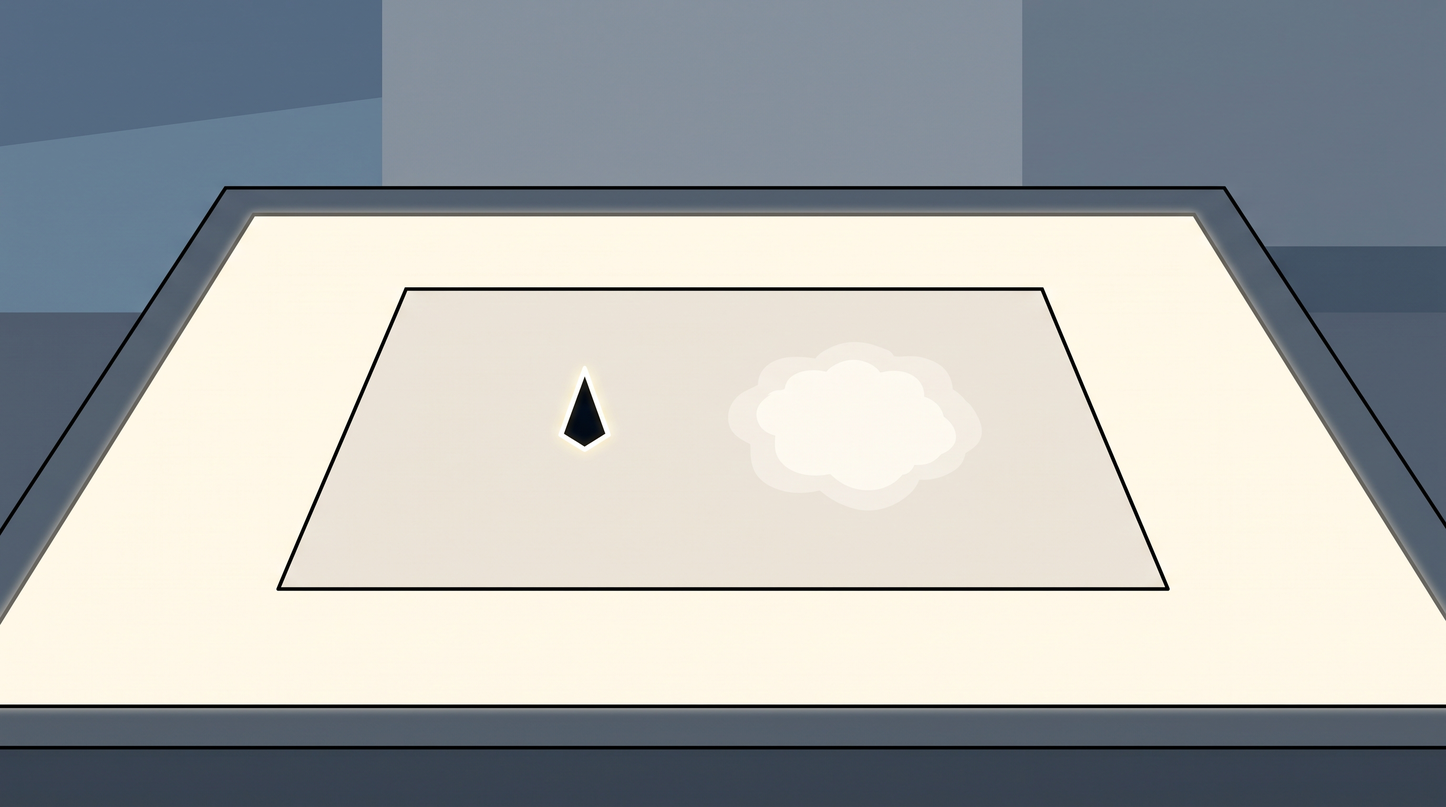
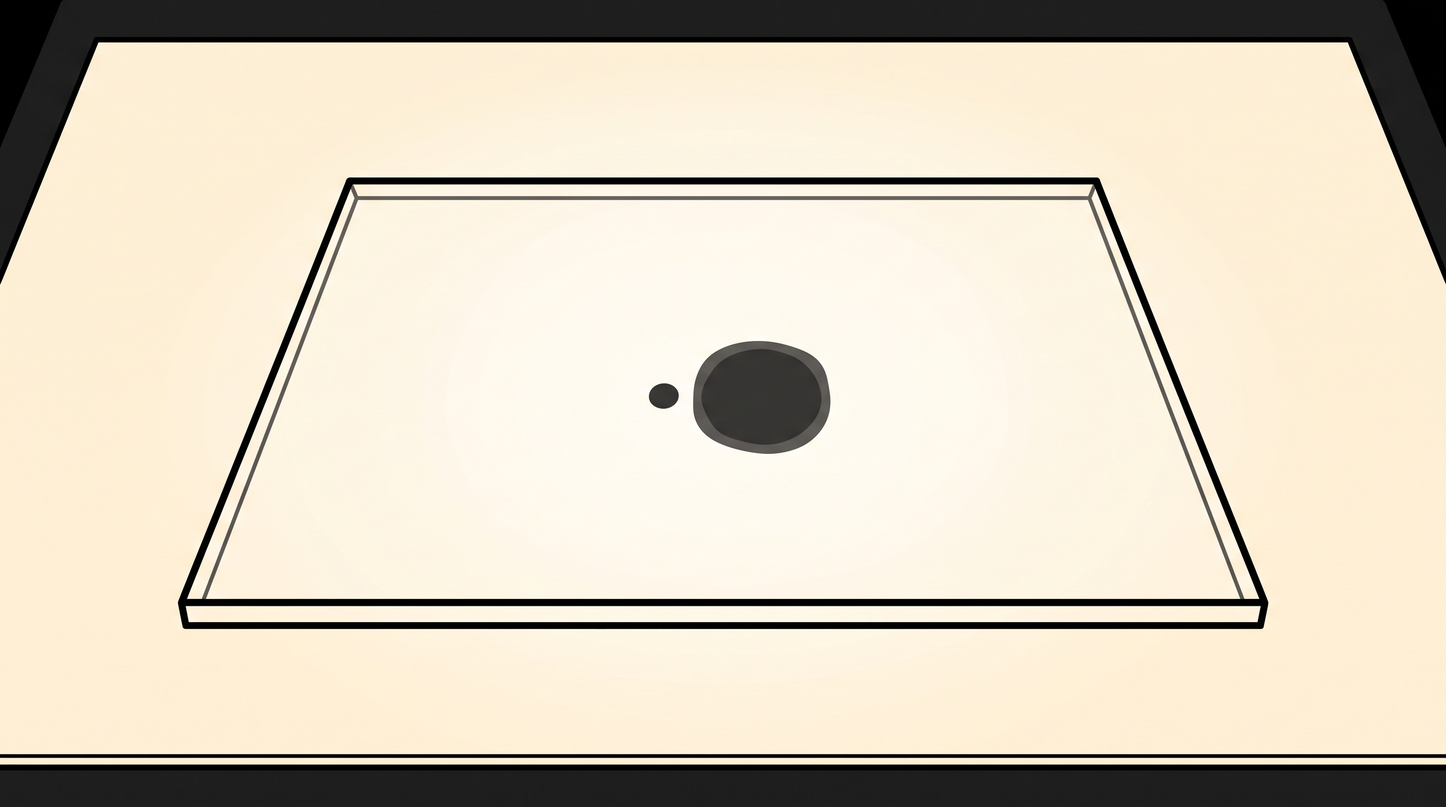
Video 2: sechs Wiederholungen bestanden, Mond als Zweistufen-Scheibe
Gemessen: der Leuchttisch liegt jetzt in allen fuenf Motiven im
Warmcreme-Band (M45 war 231,255,255 cyan, jetzt 255,252,244; dazu M44,
M48, M60, M68). M65s Galaxien sind zu 0,0 % farbig statt regenbogen.
M61 hat 0,0 % gruene Flaeche statt 4,3 % — die Baumkronen sind
Silhouetten. M63 zeigt nur noch das Fleckenmuster und den Satelliten,
ohne die unbestellte Erdkugel und die Sonne. M68 zum ersten Mal
erzeugt.

Der Mondsteckbrief folgt jetzt dem M24-Muster: zwei harte Stufen,
Scheibe plus breiterer Ring in einem Ton heller als der Nachtgrund und
dunkler als die Scheibe, beide mit sauberer Kante und je einer
Fuellung, die Ringkante trifft den Nachtgrund direkt. Ein Verbot haette
hier nicht geholfen — der Leuchthof ist dreimal durchgekommen.

Zwei Korrekturen an der eigenen Buchfuehrung: M40 und M69 sind bei der
Stapelplanung durchgefallen und nie erzeugt worden, und es sind neun
abgeleitete Zustaende statt der sechs, die ich gezaehlt hatte.

Claude-Session: https://claude.ai/code/session_01JzJDASz3JXAUBk8mVVVkBz

diff --git a/produktion/video-02/bildplan2.py b/produktion/video-02/bildplan2.py
@@ -673,12 +673,20 @@ WIEDERKEHRER[("M16", "M41")] = (
 
 # Der Mond. In M13, M35 und M39 hat er je einen weichen Leuchthof — der
 # einzige Verlauf, der in dieser Reihe dreimal durchgekommen ist.
+# Nach dem M24-Muster gebaut: der weiche Rand wird zur harten Stufe. Dort
+# hat genau das den Leuchthof geloest — Scheibe plus breiterer Ring in
+# hellerem Ton, saubere Kante, je eine Fuellung. Ein Verbot ("no glow")
+# haette hier nichts geholfen; der Hof ist dreimal durchgekommen.
 WIEDERKEHRER[("M13", "M35", "M39")] = (
-    " THE MOON IS DRAWN THE SAME WAY IN EVERY PICTURE OF THIS SERIES: one "
-    "plain pale circle filled with a single off-white, and inside it three "
-    "or four flat round patches of one slightly darker grey with clean "
-    "edges. Around the circle there is nothing at all - no ring of light, no "
-    "soft fading and no glow; the dark ground meets its outline directly.")
+    " THE MOON IS DRAWN THE SAME WAY IN EVERY PICTURE OF THIS SERIES, AND IT "
+    "IS BUILT FROM TWO FLAT STEPS: first one plain circle filled with a "
+    "single off-white, and inside it three or four flat round patches of one "
+    "slightly darker grey with clean edges; second, around that circle, one "
+    "broader ring filled with a single tone lighter than the night ground "
+    "and darker than the disc, its outer edge as clean and as sharp as the "
+    "disc's own. Both the disc and the ring carry one even fill each, and "
+    "the ring's outer edge meets the night ground directly with no third "
+    "step between them.")
 
 # Die Lupe, der Bleistift, die Kerze, der Schreibtisch in Kapstadt: kleine
 # Gegenstaende, die zweimal oder dreimal vorkommen. Je ein Satz.
